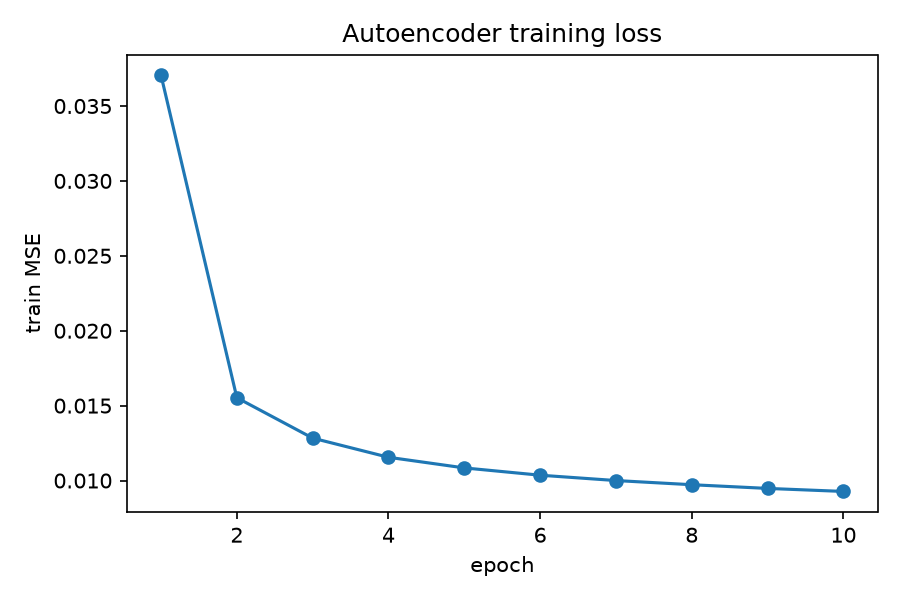
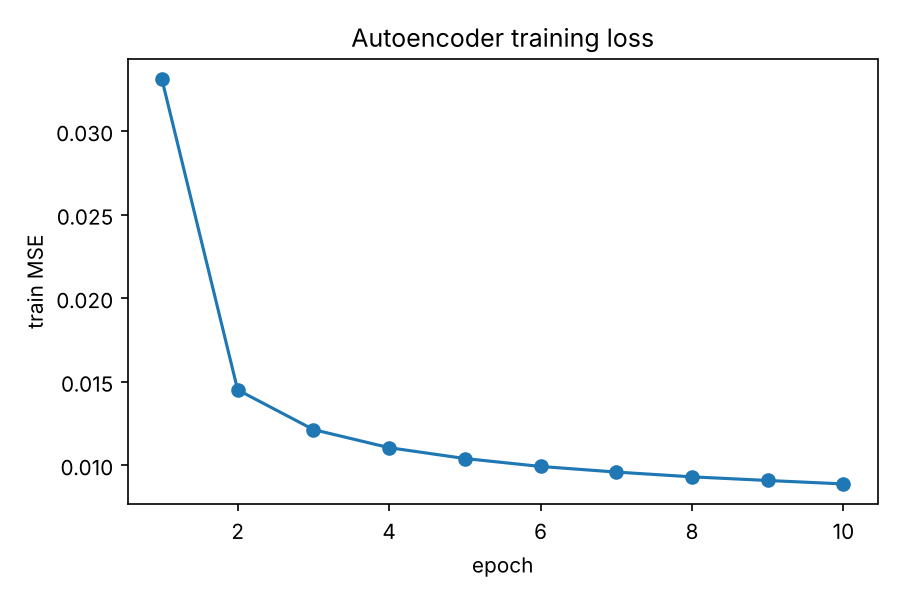
Add AE latent space analysis (PCA + t-SNE), log env recovery in troubleshooting
Footwear, trousers, and bags form clear clusters; upper-body garments overlap as expected given visual similarity at 28x28.

diff --git a/src/latent_space_analysis.py b/src/latent_space_analysis.py
@@ -1,0 +1,64 @@
+"""Latent-space analysis: project the AE's latent vectors to 2D and color by
+clothing category, to verify the encoder learned meaningful visual structure."""
+
+from pathlib import Path
+
+import matplotlib.pyplot as plt
+import numpy as np
+import torch
+from sklearn.decomposition import PCA
+from sklearn.manifold import TSNE
+
+from autoencoder import Autoencoder
+from data import CLASS_NAMES, get_dataloaders
+
+OUTPUTS_DIR = Path(__file__).resolve().parent.parent / "outputs"
+
+
+def extract_latents(model, loader, device, max_samples=3000):
+    model.eval()
+    latents, labels = [], []
+    n = 0
+    with torch.no_grad():
+        for images, batch_labels in loader:
+            images = images.to(device)
+            z = model.encoder(images)
+            latents.append(z.cpu().numpy())
+            labels.append(batch_labels.numpy())
+            n += images.size(0)
+            if n >= max_samples:
+                break
+    return np.concatenate(latents)[:max_samples], np.concatenate(labels)[:max_samples]
+
+
+def plot_projection(coords, labels, title, save_name):
+    fig, ax = plt.subplots(figsize=(7, 6))
+    scatter = ax.scatter(
+        coords[:, 0], coords[:, 1], c=labels, cmap="tab10", s=8, alpha=0.7
+    )
+    handles, _ = scatter.legend_elements(num=10)
+    ax.legend(handles, CLASS_NAMES, bbox_to_anchor=(1.02, 1), loc="upper left", fontsize=8)
+    ax.set_title(title)
+    ax.set_xlabel("dim 1")
+    ax.set_ylabel("dim 2")
+    fig.tight_layout()
+    save_path = OUTPUTS_DIR / save_name
+    fig.savefig(save_path, dpi=150, bbox_inches="tight")
+    print(f"Saved {save_path}")
+
+
+if __name__ == "__main__":
+    device = "cuda" if torch.cuda.is_available() else "cpu"
+
+    model = Autoencoder(latent_dim=32).to(device)
+    model.load_state_dict(torch.load(OUTPUTS_DIR / "ae_weights.pt", map_location=device))
+
+    _, test_loader = get_dataloaders(batch_size=256)
+    latents, labels = extract_latents(model, test_loader, device, max_samples=3000)
+    print(f"Extracted {latents.shape[0]} latent vectors of dim {latents.shape[1]}")
+
+    pca_coords = PCA(n_components=2).fit_transform(latents)
+    plot_projection(pca_coords, labels, "AE latent space (PCA)", "ae_latent_pca.png")
+
+    tsne_coords = TSNE(n_components=2, perplexity=30, random_state=0).fit_transform(latents)
+    plot_projection(tsne_coords, labels, "AE latent space (t-SNE)", "ae_latent_tsne.png")

diff --git a/docs/TROUBLESHOOTING.md b/docs/TROUBLESHOOTING.md
@@ -75,4 +75,57 @@ slightly (4 → 4.5). Verified visually — labels no longer overlap.
 
 ---
 
+## 2026-11-20 — `pip3 install` landed in the wrong Python's site-packages
+
+**Symptom:** After a fresh environment reset, `pip3 install torch
+torchvision matplotlib scikit-learn ...` reported success, but
+`python3 train_autoencoder.py` failed with `ModuleNotFoundError: No module
+named 'matplotlib'`.
+
+**Root cause:** The environment had two Python installs — `python3` resolved
+to 3.11, but `pip3` resolved to a separate Python 3.13's pip
+(`pip 24.0 ... (python 3.13)`), so packages were installed into 3.13's
+site-packages while the interpreter actually running the scripts was 3.11.
+
+**Fix:** Reinstalled using `python3 -m pip install ...` instead of bare
+`pip3`, which guarantees packages land in the site-packages of whichever
+interpreter will import them.
+
+---
+
+## 2026-11-20 — matplotlib import failed on a broken system Pillow
+
+**Symptom:** Even after fixing the pip/python mismatch above, importing
+matplotlib raised `ImportError: cannot import name '_imaging' from 'PIL'`.
+
+**Root cause:** A pre-existing Pillow install at the OS-level
+`/usr/lib/python3/dist-packages` (visible to `python3 -m pip show Pillow`,
+so pip considered the dependency "already satisfied") was missing its
+compiled `_imaging` extension — likely built for a different Python ABI —
+and that broken copy shadowed/conflicted with a working one.
+
+**Fix:** `python3 -m pip install --force-reinstall --no-deps Pillow` to put
+a matching, complete Pillow build in the interpreter's own site-packages.
+Verified with `python3 -c "from PIL import Image; import
+matplotlib.pyplot"`.
+
+---
+
+## 2026-11-20 — Session's local clone vanished between sessions
+
+**Symptom:** Returning to the project in a new session, `/home/user/fashion-vae-image-generation`
+no longer existed on disk (only `/home/user/daa` was present), even though
+`add_repo` reported the repo as "already attached".
+
+**Root cause:** Each session runs in an ephemeral container; local files
+(including git clones and installed pip packages) do not persist across
+sessions — only what's pushed to GitHub survives.
+
+**Fix:** Re-ran `git clone` for the repo and reinstalled dependencies.
+No work was lost since every completed step had already been committed and
+pushed. Lesson: never treat the local clone or installed packages as
+durable storage — only the pushed commits are.
+
+---
+
 <!-- New entries go above this line. Append, don't rewrite history. -->

diff --git a/docs/DECISIONS.md b/docs/DECISIONS.md
@@ -101,4 +101,28 @@ sampling.
 
 ---
 
+## 2026-11-20 — Latent space analysis: both PCA and t-SNE, 3000 test samples
+
+**Options considered:** PCA only, t-SNE only, or both.
+
+**Why both:** PCA is linear and fast, giving an honest (if coarser) view of
+global structure; t-SNE is non-linear and better at revealing local cluster
+structure but can distort global distances. Showing both avoids
+over-trusting either one's artifacts, and is cheap to generate.
+
+**Why 3000 samples (not the full 10k test set):** t-SNE is O(n^2)-ish and
+slow beyond a few thousand points; 3000 is enough to see clear clustering
+while keeping the plot fast to generate and readable (no overplotting).
+
+**Result:** Both projections show real structure — Trousers, Bags, and the
+footwear group (Sneaker/Sandal/Ankle boot) form clearly separated clusters
+in both PCA and t-SNE. Upper-body garments (Pullover, Coat, Shirt, T-shirt)
+overlap heavily, which matches how visually similar those classes are at
+28x28 resolution rather than indicating an encoder problem. This confirms
+the AE's 32-dim latent space captures meaningful visual characteristics,
+validating it as the representation-learning half of the brief before
+moving to the VAE.
+
+---
+
 <!-- New entries go above this line. Append, don't rewrite history. -->
